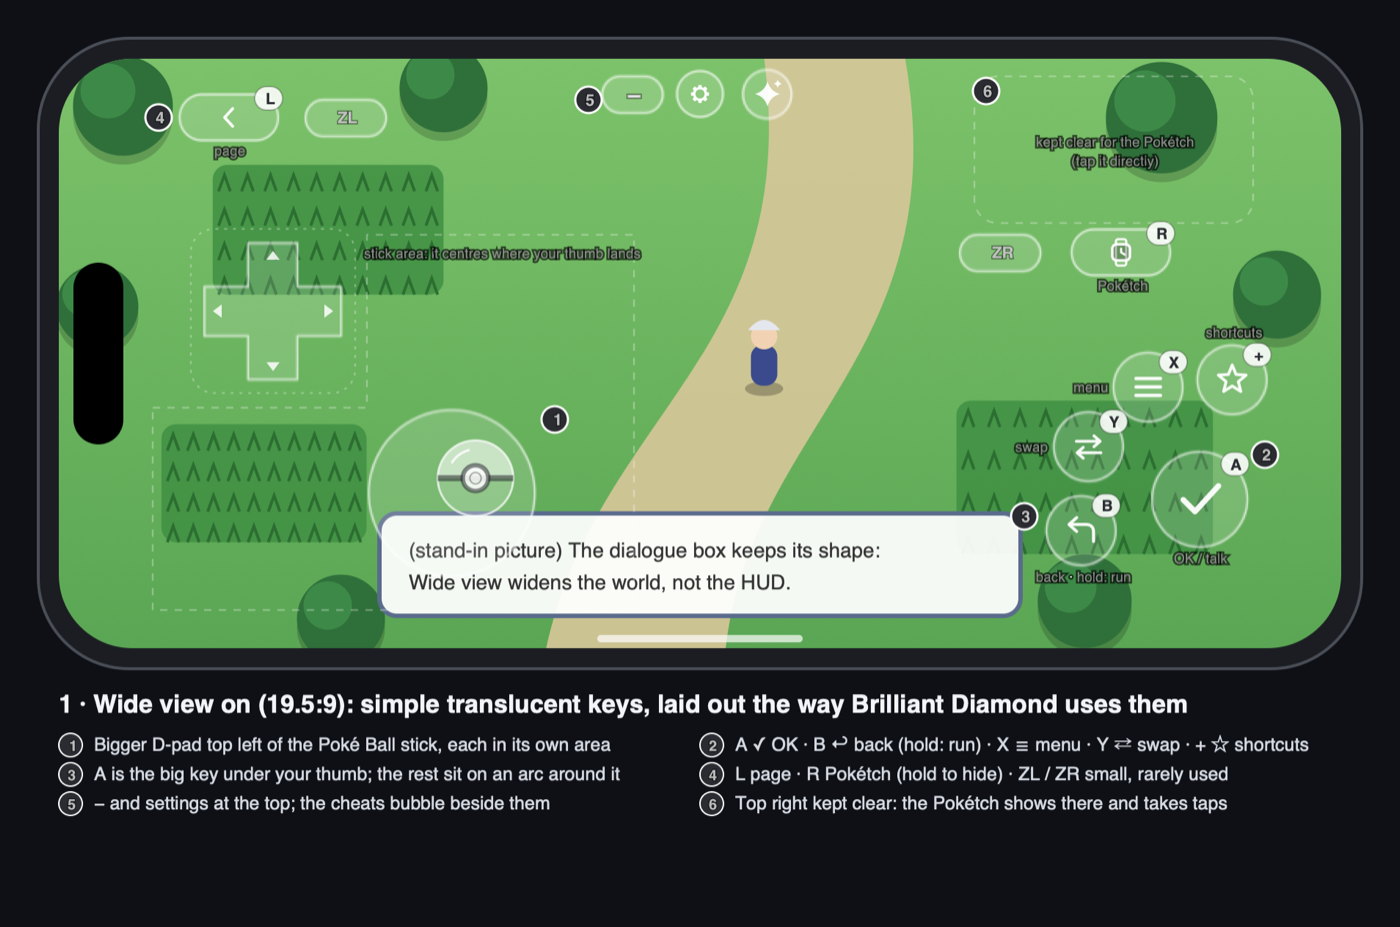
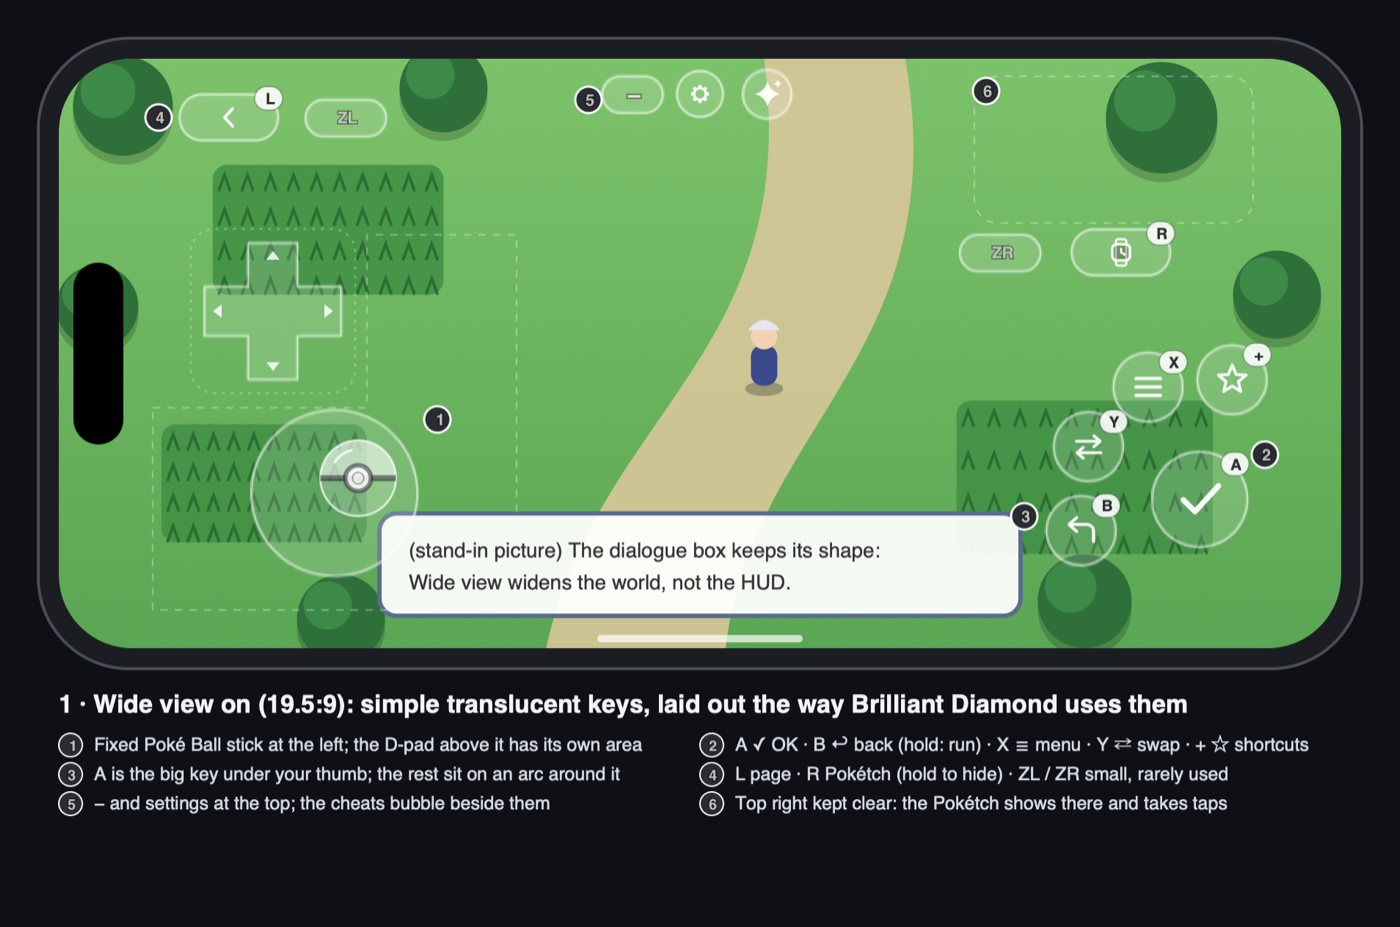
Brilliant touch layout: no text on the keys, a fixed stick further left
The keys carry only their symbols and button marks: the lines under them ("OK / talk", "back ·
hold: run", "menu", "swap", "shortcuts", "page", "Pokétch") are gone. The left stick moves from
255 to 170 units in from the left edge, under the D-pad with 12 units between them, and no
longer follows the thumb: a touch anywhere in its area takes it, tilted from its fixed centre.
The README's picture and stick description follow.

diff --git a/dm/ios/Sources/DmGamepad.m b/dm/ios/Sources/DmGamepad.m
@@ -9,8 +9,9 @@
 //     Breath of the Wild crouches with L3 and uses the scope with R3; 3D World and Breath of the Wild turn the camera with the right stick.
 //   Brilliant (profile pad_layout brilliant; Pokémon Brilliant Diamond's buttons): plain translucent keys, each with a symbol of what it does and a small mark at its top right naming the Switch button.
 //     A (✓) is the large key under the right thumb; B (↩), Y (⇄), X (☰) and + (☆, registered key items) sit on an arc around it. L and ZL are pills at the top left; R (the Pokétch) and ZR are pills
-//     below the top-right corner, which stays free because the game shows the Pokétch there and takes touches on it (handheld mode). − sits left of the menu button. The left stick floats: a touch in its
-//     area (an L around the D-pad's own square, below and right of it) centres the stick where it lands; the D-pad (larger, 8-way) is above and left of it, and a touch that starts in one area never acts on the other.
+//     below the top-right corner, which stays free because the game shows the Pokétch there and takes touches on it (handheld mode). − sits left of the menu button. No key carries a
+//     line of text: the symbols and the button marks say it. The left stick is fixed near the left edge (tilt measured from its ring centre); a touch anywhere in its area (an L around the
+//     D-pad's own square, below and right of it) takes it, and the D-pad (larger, 8-way) is above it: a touch that starts in one area never acts on the other.
 //     The knob is a Poké Ball in the same colourless glass.
 //   Touch-down ownership: the menu button where it is nearer than a locked key (a view of its own, DmMenuButton), locked keys next (shoulders, − / +, L3 / R3), then whichever of the diamond, the D-pad and the left stick has the smallest distance / grab radius (the left stick's grab circle borders the D-pad),
 //     then in 3D the right stick for a touch in the right third.
@@ -138,7 +139,7 @@ static const CGFloat
     K_BD_A_X = 71, K_BD_A_Y = 87, K_BD_A_R = 34,    // A: centre, radius
     K_BD_ARC = 90, K_BD_KEY_R = 25,                 // B, Y, X, +: distance from A's centre, radius
     K_BD_DPAD_X = 125, K_BD_DPAD_Y = 223, K_BD_DPAD_R = 49, K_BD_DPAD_BOX = 60,   // D-pad: centre, arm outer edge, half side of its own touch square
-    K_BD_STICK_X = 255, K_BD_STICK_Y = 91, K_BD_STICK_R = 60, K_BD_KNOB_R = 28,  // the stick's resting place (where it is drawn untouched), ring and knob
+    K_BD_STICK_X = 170, K_BD_STICK_Y = 91, K_BD_STICK_R = 60, K_BD_KNOB_R = 28,  // the stick: its fixed centre, ring and knob
     K_BD_AREA_IN = 37, K_BD_AREA_OUT = 133, K_BD_GAP = 8,   // the stick area: from this far in from the outer edge to this far right of the resting centre; kept this far off the D-pad's square
     K_BD_PILL_W = 70, K_BD_PILL_H = 32, K_BD_ZPILL_W = 58, K_BD_ZPILL_H = 26,   // L / R and ZL / ZR pills (x / y from the safe area)
     K_BD_L_X = 61, K_BD_ZL_X = 146, K_BD_LZ_Y = 43, // L and ZL: centres from the safe area's outer edge, from its top
@@ -177,12 +178,11 @@ static void pads_start(void);   // Physical controllers, below
     unsigned _hapticSticks;
     BOOL _stickShown;                              // the left stick was held at the last refresh
     BOOL _full, _tap, _bd;                         // the 3D layout / the Tap layout / the Brilliant layout is current
-    CALayer *_icon[B_N];                           // Brilliant: each key's symbol (an image layer), its button mark and the line under it
-    CAShapeLayer *_badge[B_N]; CATextLayer *_badgeText[B_N], *_sub[B_N];
+    CALayer *_icon[B_N];                           // Brilliant: each key's symbol (an image layer) and its button mark
+    CAShapeLayer *_badge[B_N]; CATextLayer *_badgeText[B_N];
     CGImageRef _iconImg[B_N][2];                   // the symbol drawn light (idle) and dark (pressed), made for the current size
     CGFloat _iconSize;
     CAShapeLayer *_ballTop, *_ballBand, *_ballButton;   // Brilliant: the knob drawn as a Poké Ball
-    CGPoint _lCentre;                              // Brilliant: the floating stick's centre, where its touch landed (dragged along past the ring)
     CALayer *_controls;                            // holds every control layer: hidden while a physical controller is connected (the view itself stays, for game touches)
     BOOL _padOff;                                  // a physical controller is connected: every touch goes to the game
     DmLayout _layout;
@@ -202,19 +202,13 @@ static CATextLayer *label(CALayer *parent, NSString *s) {
     [parent addSublayer:t]; return t;
 }
 static BOOL fullOnly(int b) { return b == B_LS || b == B_RS || b >= B_LEFT; }   // keys shown only in the 3D layout
-// Brilliant: each key's SF Symbol (what it does in Brilliant Diamond) and the line under it; nil for keys that carry text or nothing
+// Brilliant: each key's SF Symbol (what it does in Brilliant Diamond); nil for keys that carry text or nothing
 static NSString *bdIcon(int b) {
     switch (b) {
         case B_A: return @"checkmark"; case B_B: return @"arrow.uturn.backward"; case B_X: return @"line.3.horizontal"; case B_Y: return @"arrow.left.arrow.right";
         case B_PLUS: return @"star"; case B_L: return @"chevron.left"; case B_R: return @"applewatch";
         case B_ZL: case B_ZR: case B_MINUS: return @"";   // text keys: a layer set exists so the code below treats every Brilliant key alike
         default: return nil;
-    }
-}
-static NSString *bdSub(int b) {
-    switch (b) {
-        case B_A: return @"OK / talk"; case B_B: return @"back · hold: run"; case B_X: return @"menu"; case B_Y: return @"swap"; case B_PLUS: return @"shortcuts";
-        case B_L: return @"page"; case B_R: return @"Pokétch"; default: return nil;
     }
 }
 static BOOL bdArc(int b) { return b == B_A || b == B_B || b == B_X || b == B_Y || b == B_PLUS; }
@@ -248,12 +242,10 @@ static BOOL bdArc(int b) { return b == B_A || b == B_B || b == B_X || b == B_Y |
             _key[b] = shape(_controls);
             if (names[b]) _label[b] = label(_key[b], names[b]);   // the D-pad arms carry no label
         }
-        for (int b = 0; b < B_N; b++) if (bdIcon(b)) {   // Brilliant: symbol, button mark, line under the key (hidden in the other layouts)
+        for (int b = 0; b < B_N; b++) if (bdIcon(b)) {   // Brilliant: symbol and button mark (hidden in the other layouts)
             _icon[b] = [CALayer layer]; _icon[b].contentsGravity = kCAGravityResizeAspect; [_key[b] addSublayer:_icon[b]];
             _badge[b] = [CAShapeLayer layer]; _badge[b].lineWidth = 1; [_key[b] addSublayer:_badge[b]];
             _badgeText[b] = label(_badge[b], names[b]);
-            if (bdSub(b)) { _sub[b] = label(_key[b], bdSub(b)); _sub[b].foregroundColor = [UIColor colorWithWhite:1 alpha:0.85].CGColor;
-                _sub[b].shadowColor = UIColor.blackColor.CGColor; _sub[b].shadowOpacity = 0.6; _sub[b].shadowRadius = 1.5; _sub[b].shadowOffset = CGSizeZero; }
         }
         _ballTop = [CAShapeLayer layer]; _ballTop.fillColor = [UIColor colorWithWhite:1 alpha:0.5].CGColor; _ballTop.strokeColor = nil;
         _ballBand = [CAShapeLayer layer]; _ballBand.fillColor = nil; _ballBand.strokeColor = [UIColor colorWithWhite:0.17 alpha:0.55].CGColor;
@@ -287,7 +279,7 @@ static BOOL bdArc(int b) { return b == B_A || b == B_B || b == B_X || b == B_Y |
     for (int b = 0; b < B_N; b++) {
         _key[b].hidden = _tap || (fullOnly(b) && !_full && !(_bd && b >= B_LEFT));   // Brilliant shows the D-pad, not L3 / R3
         if (_label[b]) _label[b].hidden = _bd && _icon[b] != nil && b != B_ZL && b != B_ZR && b != B_MINUS;   // its keys show symbols; ZL, ZR and − keep their text
-        if (_icon[b]) { _icon[b].hidden = !_bd || b == B_ZL || b == B_ZR || b == B_MINUS; _badge[b].hidden = !_bd || b == B_MINUS || b == B_ZL || b == B_ZR; _sub[b].hidden = !_bd; }
+        if (_icon[b]) { _icon[b].hidden = !_bd || b == B_ZL || b == B_ZR || b == B_MINUS; _badge[b].hidden = !_bd || b == B_MINUS || b == B_ZL || b == B_ZR; }
     }
     _ring.hidden = _knob.hidden = _tap;
     _ballTop.hidden = _ballBand.hidden = _ballButton.hidden = !_bd;
@@ -355,7 +347,7 @@ static CGPoint side(CGRect s, int right, CGFloat dx, CGFloat y) { return CGPoint
     if (_bd) return side(s, 0, K_BD_STICK_X * self.u, CGRectGetMaxY(s) - K_BD_STICK_Y * self.u);
     return side(s, 0, K_STICK_X * self.u, CGRectGetMaxY(s) - K_PAD_Y * self.u);
 }
-- (CGPoint)stickCentre:(int)i { return i ? _rCentre : (_bd && _stick[0]) ? _lCentre : self.stickHome; }
+- (CGPoint)stickCentre:(int)i { return i ? _rCentre : self.stickHome; }
 - (CGFloat)stickR:(int)i { return (i ? K_RSTICK_R : _bd ? K_BD_STICK_R : K_STICK_R) * self.u; }
 - (CGRect)bdDpadBox { CGPoint c = self.dpadCenter; CGFloat h = K_BD_DPAD_BOX * self.u; return CGRectMake(c.x - h, c.y - h, 2 * h, 2 * h); }
 - (BOOL)inBdStickArea:(CGPoint)p {   // the stick's area: an L below and right of the D-pad's square, kept K_BD_GAP off it, so a touch starting in one never acts on the other
@@ -531,9 +523,9 @@ int front_web_touch(void);
         // diamond, D-pad, left stick: take the one with the smallest distance / grab radius, if it is <= 1
         CGFloat best = 1; int kind = C_NONE, idx = 0;
         CGFloat f = [self faceGrab:p]; if (f <= best) { best = f; kind = C_FACE; }
-        if (_bd && kind == C_NONE) {   // Brilliant: the D-pad's square, else the stick's area (the stick centres where the touch lands); never both
+        if (_bd && kind == C_NONE) {   // Brilliant: the D-pad's square, else the stick's area; never both
             if (CGRectContainsPoint(self.bdDpadBox, p)) kind = C_DPAD;
-            else if (!_stick[0] && [self inBdStickArea:p]) { kind = C_STICK; _lCentre = p; }
+            else if (!_stick[0] && [self inBdStickArea:p]) kind = C_STICK;   // the fixed stick, tilted from its centre
         }
         if (_bd) best = 0;   // the areas decided it: the generic checks below do not run
         if (_full) { CGFloat d = dist(p, self.dpadCenter) / MAX(self.dpadR * K_DPAD_GRAB, _layout.separated ? 22 : 0); if (d < best) { best = d; kind = C_DPAD; } }
@@ -554,9 +546,7 @@ int front_web_touch(void);
         if (c == C_FACE) [_faceOf setObject:@([self faceAt:p]) forKey:t];
         else if (c == C_STICK) { _stickNow[v >> 8] = p;
             if ((v >> 8) == 1) { CGFloat d = dist(p, _rCentre), R = [self stickR:1];   // the right stick's centre follows a finger past its radius, so turning back responds at once
-                if (d > R) _rCentre = CGPointMake(p.x - (p.x - _rCentre.x) * R / d, p.y - (p.y - _rCentre.y) * R / d); }
-            else if (_bd) { CGFloat d = dist(p, _lCentre), R = [self stickR:0];   // Brilliant's floating stick likewise
-                if (d > R) _lCentre = CGPointMake(p.x - (p.x - _lCentre.x) * R / d, p.y - (p.y - _lCentre.y) * R / d); } }
+                if (d > R) _rCentre = CGPointMake(p.x - (p.x - _rCentre.x) * R / d, p.y - (p.y - _rCentre.y) * R / d); } }
         else if (c == C_GAME) game = YES;
     }
     if (game) [self pushGame];
@@ -640,7 +630,7 @@ static void placeLabel(CATextLayer *t, CGPoint c, CGFloat fs) {
     _menu.frame = CGRectMake(mc.x - mr, mc.y - mr, 2 * mr, 2 * mr); _menu.layer.cornerRadius = mr;
     _menu.layer.shadowPath = [UIBezierPath bezierPathWithOvalInRect:_menu.bounds].CGPath;
     [_menu setImage:[UIImage systemImageNamed:@"gearshape.fill" withConfiguration:[UIImageSymbolConfiguration configurationWithPointSize:13 * u weight:UIImageSymbolWeightSemibold]] forState:UIControlStateNormal];
-    CGFloat R = [self stickR:0]; _ring.bounds = CGRectMake(0, 0, 2 * R, 2 * R);   // drawn around (R, R) and placed by refresh: Brilliant's stick moves to where the touch lands
+    CGFloat R = [self stickR:0]; _ring.bounds = CGRectMake(0, 0, 2 * R, 2 * R);   // drawn around (R, R) and placed by refresh at the stick's centre
     setPath(_ring, circlePath(CGPointMake(R, R), R));
     CGFloat k = (_bd ? K_BD_KNOB_R : K_KNOB_R) * u; _knob.bounds = CGRectMake(0, 0, 2 * k, 2 * k);
     setPath(_knob, circlePath(CGPointMake(k, k), k));
@@ -656,7 +646,7 @@ static void placeLabel(CATextLayer *t, CGPoint c, CGFloat fs) {
     [CATransaction commit];
     [self refresh];
 }
-// Brilliant: each key's symbol in its middle, its button mark at the top right, its line underneath. The symbols are SF Symbols drawn once per size as bitmaps, light and dark
+// Brilliant: each key's symbol in its middle and its button mark at the top right. The symbols are SF Symbols drawn once per size as bitmaps, light and dark
 - (void)makeIcons:(CGFloat)size scale:(CGFloat)scale {
     if (size == _iconSize) return;
     _iconSize = size;
@@ -687,13 +677,6 @@ static void placeLabel(CATextLayer *t, CGPoint c, CGFloat fs) {
         _badge[b].frame = CGRectMake(bc.x - bw / 2, bc.y - bh / 2, bw, bh);
         CGPathRef bp = CGPathCreateWithRoundedRect(CGRectMake(0, 0, bw, bh), bh / 2, bh / 2, NULL); _badge[b].path = bp; CGPathRelease(bp);
         placeLabel(_badgeText[b], CGPointMake(bw / 2, bh / 2), bh * 0.66); _badgeText[b].contentsScale = scale;
-        if (_sub[b]) {   // the line under the key; Y's and X's go to their left, +'s above, so the arc's lines do not overlap
-            CGFloat fs = 9.5 * MIN(u, 1.1); CGPoint sc = CGPointMake(c.x, c.y + r + fs);
-            if (b == B_Y || b == B_X) sc = CGPointMake(c.x - r - fs * 3.2, c.y);
-            else if (b == B_PLUS) sc = CGPointMake(c.x, c.y - r - fs * 0.9);
-            placeLabel(_sub[b], sc, fs); _sub[b].frame = CGRectInset(_sub[b].frame, -fs * 2, 0); _sub[b].contentsScale = scale;
-            _sub[b].font = (__bridge CFTypeRef)[UIFont systemFontOfSize:fs weight:UIFontWeightMedium];
-        }
     }
 }
 - (void)safeAreaInsetsDidChange { [super safeAreaInsetsDidChange]; [self setNeedsLayout]; }

diff --git a/README.md b/README.md
@@ -11,9 +11,9 @@ LumiOS Platinum packs [Luminescent Platinum](https://luminescent.team) (Team Lum
 ## Features
 
 - **Luminescent Platinum 2.2F, whole.** Both halves of the mod are included. The `exefs` half (an IPS patch to `main` and the exlaunch plugin `subsdk1`) is applied when the app is built. The `romfs` half is laid over the game's files. iOS never has to change code while the game runs.
-- **Brilliant touch layout.** These touch controls follow how Brilliant Diamond uses its buttons. The keys are translucent and colourless, and each shows a symbol with a small button mark at its corner.
+- **Brilliant touch layout.** These touch controls follow how Brilliant Diamond uses its buttons. The keys are translucent and colourless, with no text: each shows a symbol and a small button mark at its corner.
   - A (✓) is the large key under your right thumb. B (↩), Y (⇄), X (☰) and + (☆, your registered key items) sit on an arc around it.
-  - The left stick is shaped like a Poké Ball and floats: it centres wherever your thumb lands. The D-pad above it has its own touch area, so the stick never presses it.
+  - The left stick is a fixed Poké Ball near the left edge: touch anywhere in its area and tilt from its centre. The D-pad above it has its own touch area, so the stick never presses it.
   - The top-right corner stays free, because the Pokétch shows there and you can tap it directly.
 - **Wide view (19.5:9).** The game renders the iPhone's full screen width itself. Nothing is stretched: models and the HUD keep their shapes. You can turn it off in the launcher to get 16:9 with bars.
 - **Cheats bubble.** A draggable button opens a panel of cheats while you play. Turn it on in the launcher. The cheat engine and the panel are in place, but the list of tested cheats is still to come.
